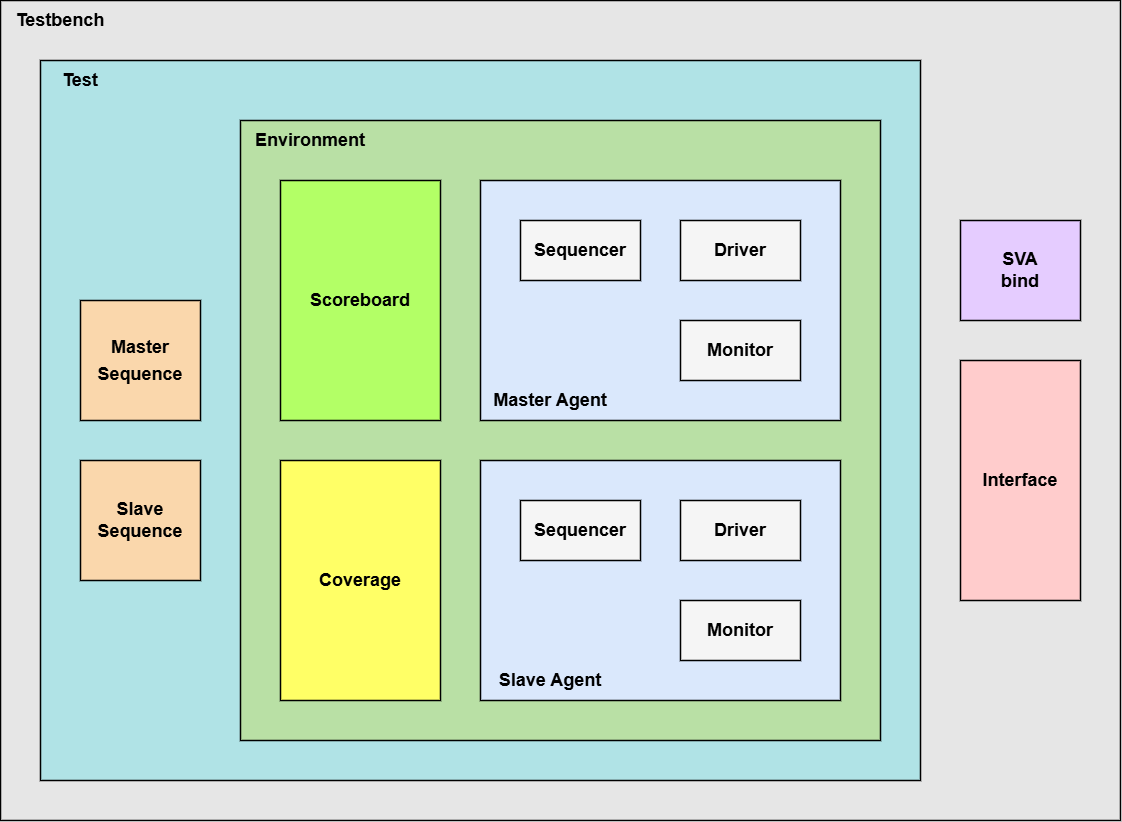
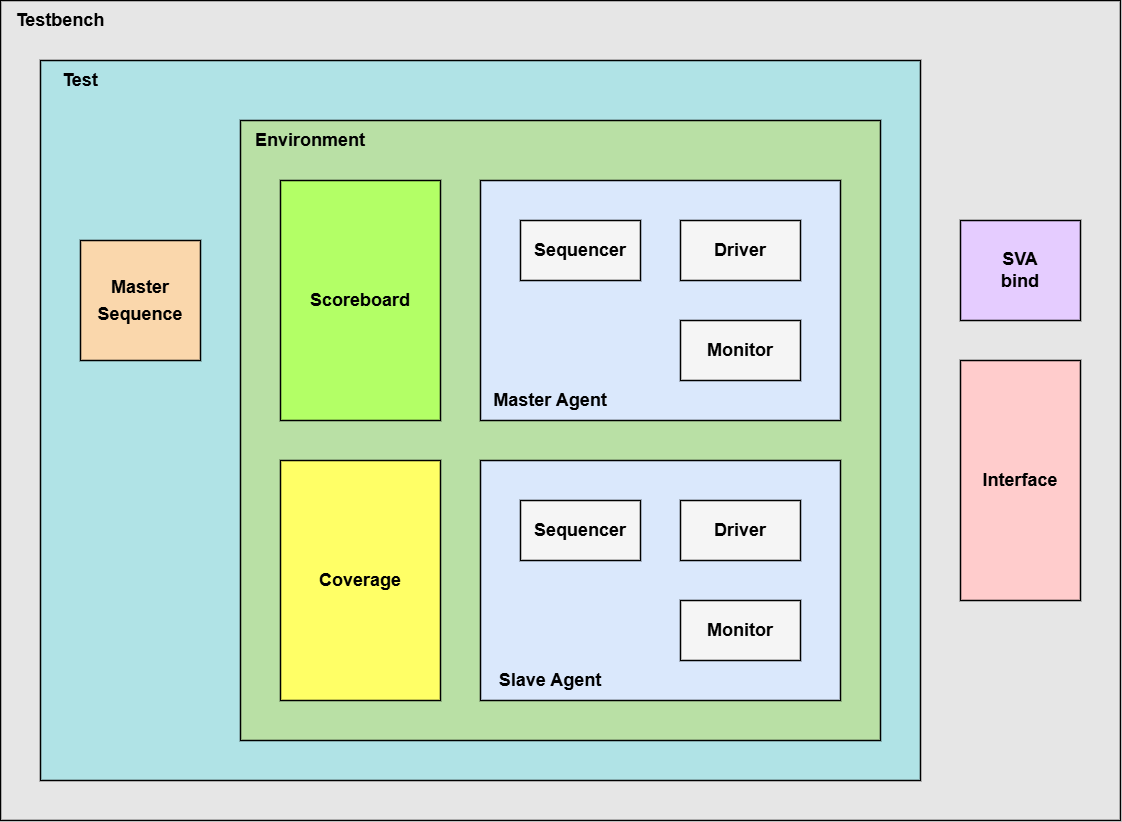
pre-release version

Changed region(s): [[0.0624, 0.2737, 0.1872, 0.517], [0.0624, 0.5474, 0.1872, 0.7299]]

diff --git a/README.md b/README.md
@@ -1,16 +1,188 @@
-# Basic AXI4 UVM VIP
+# AXI4 UVM Verification Intellectual Property (VIP)
 
-A basic AXI4 VIP (Verification Intellectual Property) developed using a UVM environment for self-study and learning purposes.
+This repository contains a functional, parameterized, and compliant AMBA AXI4 Verification Intellectual Property (VIP) implemented in SystemVerilog and the Universal Verification Methodology (UVM). It is designed to verify AXI4-compliant designs (Master, Slave, or Interconnect components) with high reliability, coverage collection, and protocol check assertions.
 
 ---
 
-## 📌 Project Overview
-This project focuses on building a functional verification environment for the AXI4 protocol using SystemVerilog and UVM. It serves as a practical codebase for learning protocol verification concepts.
+## Architecture Overview
 
-## 📁 Repository Structure
-*(To be updated upon project completion)*
-* `src/` - Source code for the AXI4 VIP, testbench top and test cases
-* `sim/` - Simulation scripts and Makefiles
+The VIP consists of two main agents (Master and Slave) connected through a virtual interface to the Device Under Test (DUT).
 
-## 🚀 How to Run
-*(To be updated)*
+The overall architecture is documented in the accompanying design diagram:
+![AXI4 VIP Architecture](doc/axi4_vip.png)
+
+### Key Components
+
+- **axi4_if**: SystemVerilog interface defining all 5 AXI4 channels with clocking blocks (`master_cb`, `slave_cb`, `monitor_cb`) and modports (`master_mp`, `slave_mp`, `monitor_mp`) to avoid race conditions.
+- **axi4_master_agent**: Active/Passive agent containing a sequencer, a clocking-block-compliant driver, and a monitor to observe write and read operations.
+- **axi4_slave_agent**: Active/Passive agent simulating memory and handling responder rules. It is capable of generating responses (OKAY, EXOKAY, SLVERR, DECERR) and driving ready handshakes.
+- **axi4_scoreboard**: Tracks transactions in progress, manages out-of-order responses, and maintains an internal reference memory model to verify read-after-write data integrity, including strobe routing verification.
+- **axi4_coverage**: Functional coverage monitor capturing AXI4 transaction scenarios, address alignment, burst lengths, burst types, sizes, and channel back-pressures.
+- **axi4_sva**: Comprehensive SystemVerilog Assertions module checking AXI4 protocol compliance directly on the interface.
+
+---
+
+## Directory Structure
+
+```text
+axi4_vip/
+├── LICENSE
+├── README.md
+├── doc/
+│   ├── axi4_vip.png
+│   └── axi4_vip_vplan.xlsx
+├── sim/
+│   ├── Makefile
+│   └── (simulation artifacts: logs, coverage, reports, etc.)
+└── src/
+    ├── axi4_if.sv
+    ├── axi4_pkg.sv
+    ├── axi4_test_pkg.sv
+    ├── tb_top.sv
+    ├── cfg/
+    │   ├── axi4_agent_config.sv
+    │   ├── axi4_transaction.sv
+    │   └── axi4_types.sv
+    ├── env/
+    │   ├── axi4_coverage.sv
+    │   ├── axi4_scoreboard.sv
+    │   ├── axi4_vip_env.sv
+    │   └── axi4_vip_env_config.sv
+    ├── mst/
+    │   ├── axi4_master_agent.sv
+    │   ├── axi4_master_driver.sv
+    │   ├── axi4_master_monitor.sv
+    │   └── axi4_master_sequencer.sv
+    ├── seq/
+    │   └── (axi4 sequence library)
+    ├── slv/
+    │   ├── axi4_slave_agent.sv
+    │   ├── axi4_slave_driver.sv
+    │   ├── axi4_slave_monitor.sv
+    │   └── axi4_slave_sequencer.sv
+    ├── sva/
+    │   └── axi4_sva.sv
+    └── test/
+        └── (axi4 test library)
+```
+
+---
+
+## Features and Protocol Support
+
+The AXI4 VIP supports standard AMBA AXI4 features:
+
+- **Address & Data Width Configuration**: Independent parametrizable `ADDR_WIDTH`, `DATA_WIDTH`, and `ID_WIDTH` parameters.
+- **Burst Types**: Support for FIXED, INCR, and WRAP transfers.
+- **Burst Lengths**: Up to 256 beats per transaction for INCR burst type (complying with AXI4 specification).
+- **Out-of-Order Execution**: Monitor and scoreboard track and match out-of-order read and write responses based on Transaction IDs.
+- **Outstanding Transactions**: Test harness verifies multi-threaded outstanding reads and writes.
+- **Exclusive Access**: Supports AXI4 locking mechanism (EXCLUSIVE/NORMAL) with address monitoring.
+- **Strobe Routing**: Byte lane write enablement check via `WSTRB`.
+- **SystemVerilog Assertions (SVA)**: Checks protocol stability, handshakes, payload stability, out-of-order data interleaving violations, and invalid/reserved configurations.
+
+---
+
+## Configuration and Enumerations
+
+### VIP Parameters
+
+The parameters are configured in the interface and package files:
+
+- **ADDR_WIDTH**: Width of the address buses (default is 32).
+- **DATA_WIDTH**: Width of the data buses (default is 32).
+- **ID_WIDTH**: Width of the transaction ID buses (default is 4).
+
+### Key Typedefs and Enums
+
+The enums are declared inside `cfg/axi4_types.sv`:
+
+- **axi4_burst_type_e**:
+  - `AXI4_BURST_FIXED` (2'b00)
+  - `AXI4_BURST_INCR` (2'b01)
+  - `AXI4_BURST_WRAP` (2'b10)
+- **axi4_resp_e**:
+  - `AXI4_RESP_OKAY` (2'b00)
+  - `AXI4_RESP_EXOKAY` (2'b01)
+  - `AXI4_RESP_SLVERR` (2'b10)
+  - `AXI4_RESP_DECERR` (2'b11)
+- **axi4_size_e**:
+  - Defines the number of bytes in each transfer beat (from `AXI4_SIZE_1B` to `AXI4_SIZE_128B`).
+- **axi4_lock_e**:
+  - `AXI4_LOCK_NORMAL` (1'b0)
+  - `AXI4_LOCK_EXCLUSIVE` (1'b1)
+- **axi4_wr_order_e**:
+  - Controls the interleaving order of AW and W channels: `AXI4_WR_PARALLEL`, `AXI4_WR_AW_BEFORE_W`, and `AXI4_WR_W_BEFORE_AW`.
+
+---
+
+## Verification Environment and Test Suite
+
+The test package `axi4_test_pkg` provides test scenarios extending `axi4_base_test`:
+
+- **axi4_sanity_test**: Standard single-beat/multi-beat transaction verification.
+- **axi4_random_test**: Generates randomized burst sizes, types, and lengths.
+- **axi4_outstanding_test**: Tests multiple parallel transactions on different threads.
+- **axi4_out_of_order_test**: Validates out-of-order write responses and read-data returns.
+- **axi4_exclusive_test**: Verifies atomic read-modify-write transactions and EXOKAY feedback.
+- **axi4_unaligned_test**: Validates address alignment offset calculations.
+- **axi4_cache_prot_test**: Sweeps cache and protection configurations.
+- **axi4_strobe_test**: Randomizes strobe patterns to ensure correct byte lane write routing.
+- **axi4_burst_sweep_test**: Exercises variable transfer lengths and sizes.
+
+---
+
+## How to Run Simulations
+
+The `sim/` directory includes a Makefile configured for Mentor Graphics/Siemens QuestaSim.
+
+### Requirements
+
+- Siemens QuestaSim / ModelSim
+- SystemVerilog compiler and UVM library installation
+
+### Command Reference
+
+To run simulations, navigate to the `sim/` directory and execute the following commands:
+
+#### Print Help Information
+Shows all make targets and parameters.
+```bash
+make help
+```
+
+#### Run a Single Test (CLI Mode)
+Runs the default test (`axi4_sanity_test`) with a random seed.
+```bash
+make run
+```
+
+To run a specific test and override variables:
+```bash
+make run TESTNAME=axi4_random_test SEED=42 UVM_VERBOSITY=UVM_HIGH USE_COVERAGE=1
+```
+
+#### Run a Test in GUI Mode
+Launches the simulator in graphic user interface (GUI) mode with default waveform displays configured for AXI4 channels.
+```bash
+make gui TESTNAME=axi4_outstanding_test
+```
+
+#### Run Regression
+Executes the regression suite in parallel. You can customize the iteration count per test using `NUM_RUNS`.
+```bash
+make -j8 regress NUM_RUNS=5
+```
+
+#### Generate Coverage Reports
+Merges all generated coverage database files (`.ucdb`) and produces an HTML report.
+```bash
+make cov_report
+```
+Once generated, the report can be viewed in your browser at `sim/report/cov_html/index.html`.
+
+#### Clean Build Artifacts
+Removes all generated compilation libraries, temporary wave files, and coverage directories.
+```bash
+make clean
+```